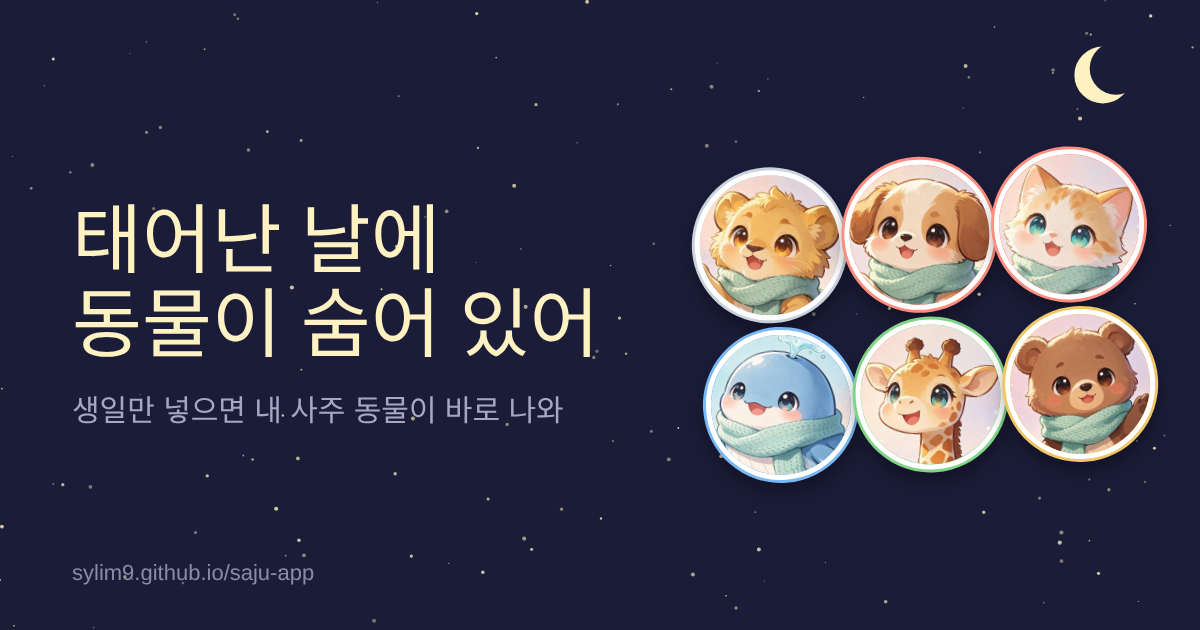
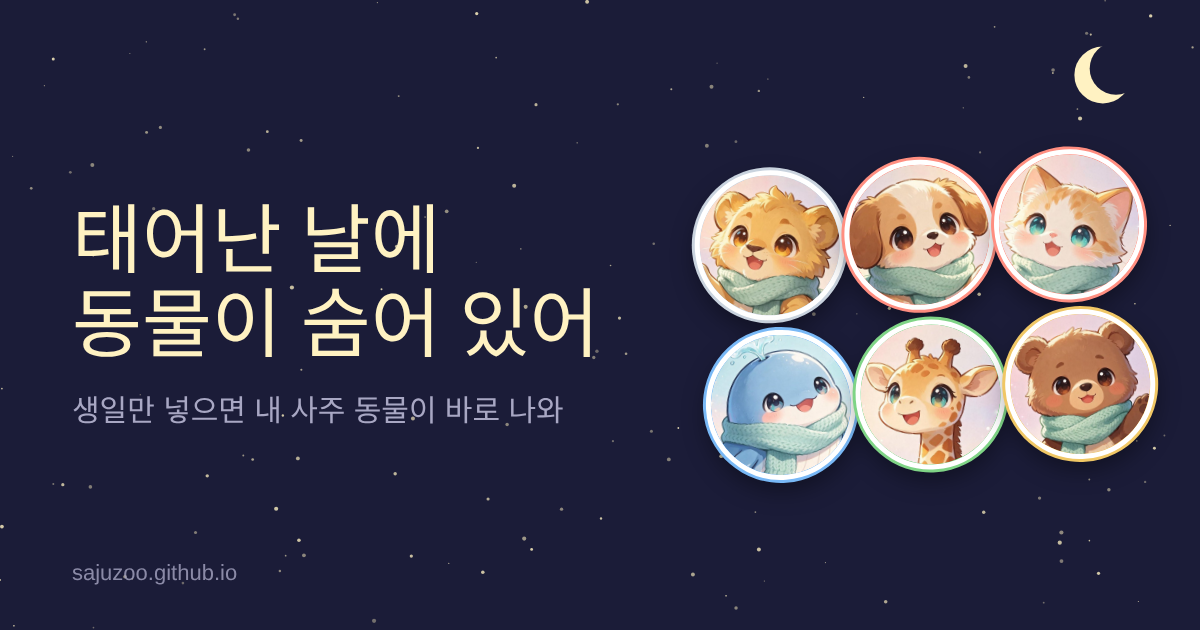
Add files via upload

Changed region(s): [[0.7092, 0.2714, 0.8325, 0.4825], [0.5858, 0.5429, 0.7092, 0.754], [0.0617, 0.8746, 0.2775, 0.9349]]

diff --git a/README.md b/README.md
@@ -4,7 +4,7 @@
 
 생년월일시를 넣으면 사주팔자를 계산하고, 일간(나를 뜻하는 글자)에 따라 열 마리 동물 중 하나를 찾아주는 웹앱. 사주를 몰라도 읽을 수 있게 모든 용어를 쉬운 말로 풀었고, 밤하늘 스티커북 느낌의 귀여운 룩으로 만들었다.
 
-**바로 써보기 → https://sylim9.github.io/saju-app/**
+**바로 써보기 → https://sajuzoo.github.io/**
 
 <br>
 
